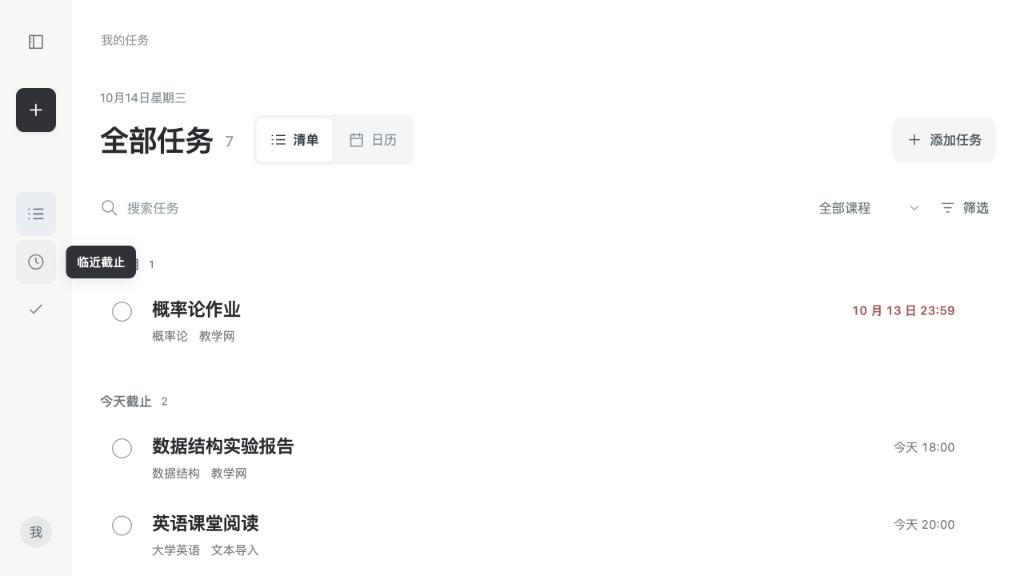
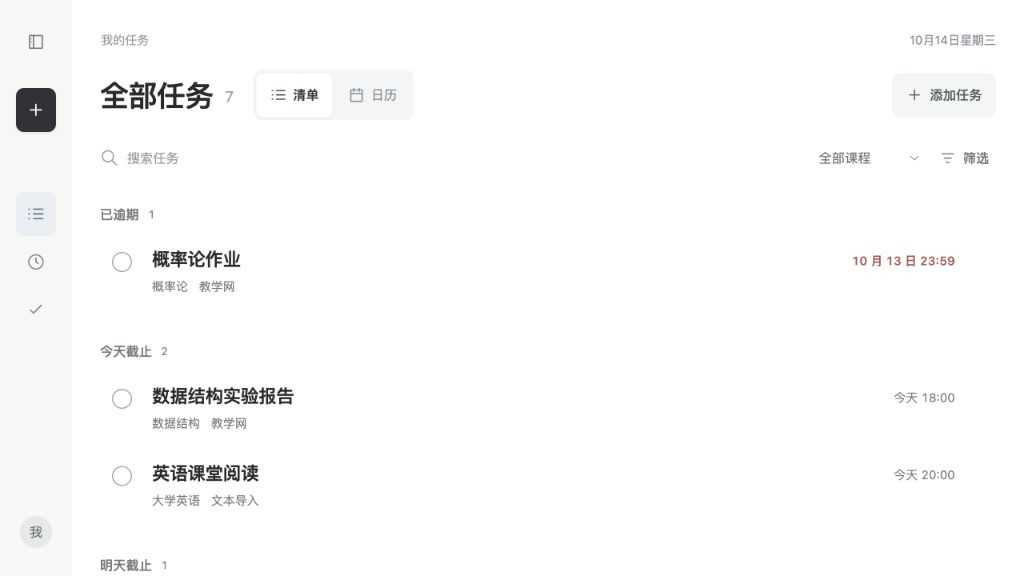
fix(frontend): compact shared headers and move date to top right

diff --git a/frontend/src/app.js b/frontend/src/app.js
@@ -44,6 +44,9 @@ const app = document.querySelector("#app"),
   sidebarTooltip = document.querySelector("#sidebar-tooltip");
 const params = new URLSearchParams(location.search),
   today = todayKey();
+const dateLabel = new Intl.DateTimeFormat("zh-CN", {
+  month: "long", day: "numeric", weekday: "long",
+}).format(new Date(today + "T12:00:00"));
 let demo = params.get("demo") === "1",
   state = demo ? demoWorkspace(today) : readStore(),
   loading = !demo,
@@ -311,7 +314,6 @@ function tasksPage() {
     ] || "全部任务";
   const heading = renderPageHeading({
     title: label,
-    eyebrow: new Intl.DateTimeFormat("zh-CN", { month: "long", day: "numeric", weekday: "long" }).format(new Date(today + "T12:00:00")),
     count: filtered().length,
     countId: "result-count",
     controls: viewSwitch,
@@ -363,7 +365,7 @@ function render() {
     focusId = focus?.id,
     start = focus?.selectionStart,
     end = focus?.selectionEnd;
-  app.innerHTML = `<div class="workspace ${ui.sidebarCollapsed ? "sidebar-collapsed" : ""} ${ui.mobileMenu ? "menu-open" : ""}">${sidebar()}<button type="button" class="sidebar-scrim" data-action="sidebar-toggle" aria-label="关闭侧栏" tabindex="-1"></button><main id="main" ${ui.mobileMenu ? "inert" : ""}><div class="page-frame"><div class="main-topbar"><button type="button" id="sidebar-show" class="icon-button" data-action="sidebar-toggle" aria-controls="sidebar" aria-expanded="${ui.mobileMenu}" aria-label="展开侧栏">${icon("sidebar")}</button><span>${ui.page === "import" ? "导入" : "我的任务"}</span></div><div id="sync-alert">${syncAlert()}</div>${loading ? '<div class="loading-state" role="status">正在读取任务…</div>' : ui.page === "import" ? `<section class="import-page">${imports.render()}</section>` : tasksPage()}</div></main></div>`;
+  app.innerHTML = `<div class="workspace ${ui.sidebarCollapsed ? "sidebar-collapsed" : ""} ${ui.mobileMenu ? "menu-open" : ""}">${sidebar()}<button type="button" class="sidebar-scrim" data-action="sidebar-toggle" aria-label="关闭侧栏" tabindex="-1"></button><main id="main" ${ui.mobileMenu ? "inert" : ""}><div class="page-frame"><div class="main-topbar"><button type="button" id="sidebar-show" class="icon-button" data-action="sidebar-toggle" aria-controls="sidebar" aria-expanded="${ui.mobileMenu}" aria-label="展开侧栏">${icon("sidebar")}</button><span>${ui.page === "import" ? "导入" : "我的任务"}</span><time class="main-date" datetime="${today}">${esc(dateLabel)}</time></div><div id="sync-alert">${syncAlert()}</div>${loading ? '<div class="loading-state" role="status">正在读取任务…</div>' : ui.page === "import" ? `<section class="import-page">${imports.render()}</section>` : tasksPage()}</div></main></div>`;
   if (!focusId) restoreFocus(token);
   if (focusId) {
     const next = document.getElementById(focusId);

diff --git a/frontend/src/styles.css b/frontend/src/styles.css
@@ -387,10 +387,17 @@ button .icon {
   height: 40px;
   font-size: 12px;
   color: #9a9ea3;
-  margin-bottom: 29px;
+  margin-bottom: 10px;
 }
 .main-topbar > span {
   margin-left: 1px;
+}
+.main-date {
+  flex: none;
+  margin-left: auto;
+  font-size: 12px;
+  color: #878e96;
+  white-space: nowrap;
 }
 #sidebar-show {
   display: none;
@@ -452,14 +459,14 @@ button .icon {
 .page-heading {
   display: grid;
   grid-template-columns: minmax(0, 1fr) auto;
-  grid-template-rows: 16.8px minmax(50px, auto);
+  grid-template-rows: minmax(50px, auto);
   align-items: center;
-  gap: 9px 18px;
-  margin-bottom: 23px;
+  gap: 10px;
+  margin-bottom: 18px;
 }
 .page-heading-line {
   grid-column: 1;
-  grid-row: 2;
+  grid-row: 1;
   display: flex;
   align-items: center;
   gap: 20px;
@@ -489,7 +496,7 @@ button .icon {
 }
 .page-heading-actions {
   grid-column: 2;
-  grid-row: 2;
+  grid-row: 1;
   display: flex;
   align-items: center;
   justify-content: flex-end;
@@ -497,18 +504,6 @@ button .icon {
 }
 .page-heading-actions .btn {
   min-height: 44px;
-}
-.page-eyebrow {
-  grid-column: 1 / -1;
-  grid-row: 1;
-  min-height: 16.8px;
-  height: 16.8px;
-  font-size: 12px;
-  line-height: 16.8px;
-  color: #878e96;
-  white-space: nowrap;
-  overflow: hidden;
-  text-overflow: ellipsis;
 }
 .page-heading h1 {
   font-size: 29px;
@@ -1351,8 +1346,11 @@ dialog .auth-switch {
     padding: 12px 20px 45px;
   }
   .main-topbar {
-    margin: 0 -8px 23px;
+    margin: 0 0 10px -8px;
     font-size: 12px;
+  }
+  .main-date {
+    font-size: 11px;
   }
   #sidebar-show {
     display: inline-flex;
@@ -1366,22 +1364,14 @@ dialog .auth-switch {
   }
   .page-heading {
     grid-template-columns: minmax(0, 1fr) 44px;
-    grid-template-rows: 44px minmax(50px, auto);
+    grid-template-rows: minmax(50px, auto);
     align-items: center;
-    gap: 6px 0;
-    margin-bottom: 17px;
-  }
-  .page-eyebrow {
-    grid-column: 1;
-    grid-row: 1;
-    display: flex;
-    align-items: center;
-    min-height: 44px;
-    height: 44px;
+    gap: 10px;
+    margin-bottom: 14px;
   }
   .page-heading-line {
-    grid-column: 1 / -1;
-    grid-row: 2;
+    grid-column: 1;
+    grid-row: 1;
     justify-content: space-between;
     gap: 10px;
   }
@@ -1418,9 +1408,6 @@ dialog .auth-switch {
   }
   .page-heading h1 {
     font-size: 27px;
-  }
-  .page-eyebrow {
-    font-size: 11px;
   }
   .add-task {
     font-size: 12px;
@@ -1550,8 +1537,13 @@ dialog .auth-switch {
   }
 }
 @media (max-width: 360px) {
+  .page-heading,
+  .page-heading-line {
+    gap: 6px;
+  }
   .page-heading-line h1 {
     font-size: 24px;
+    gap: 4px;
   }
   .page-heading-line .task-view-switch button {
     min-width: 44px;

diff --git a/frontend/src/page-layout.js b/frontend/src/page-layout.js
@@ -8,7 +8,6 @@ function escapeText(value) {
 // Controls and actions are markup generated by the calling page.
 export function renderPageHeading({
   title,
-  eyebrow = "",
   count,
   countId = "",
   controls = "",
@@ -16,5 +15,5 @@ export function renderPageHeading({
   escapeHtml = escapeText,
 }) {
   const counter = count == null ? "" : `<span class="heading-count"${countId ? ` id="${escapeHtml(countId)}"` : ""}>${escapeHtml(count)}</span>`;
-  return `<header class="page-heading"><div class="page-eyebrow"${eyebrow ? "" : ' aria-hidden="true"'}>${escapeHtml(eyebrow)}</div><div class="page-heading-line"><h1 id="page-title" tabindex="-1">${escapeHtml(title)}${counter}</h1>${controls}</div>${actions ? `<div class="page-heading-actions">${actions}</div>` : ""}</header>`;
+  return `<header class="page-heading"><div class="page-heading-line"><h1 id="page-title" tabindex="-1">${escapeHtml(title)}${counter}</h1>${controls}</div>${actions ? `<div class="page-heading-actions">${actions}</div>` : ""}</header>`;
 }

diff --git a/frontend/docs/design.md b/frontend/docs/design.md
@@ -22,13 +22,13 @@
 | 选中与日期 | 少量雾蓝或浅灰底，使用形状与字重共同区分 |
 | 辅助信息 | 中灰文字，字号降低但保持清楚可读 |
 
-页面标题约 30–32px，导入与任务复用同一标题组件，标题大小、标题行和第一控件起点一致；任务名称约 17–18px、当日面板任务约 15px、课程和来源约 11–12px。层级同时依靠字号、字重、位置和留白；不以浅到难读的颜色区分信息。任务名称允许自然换行，避免为了容纳冗长标签压缩正文。
+页面标题约 30–32px，导入与任务复用紧凑单行标题组件，标题统一上移，标题大小、标题行和第一控件起点一致；日期位于共享顶栏右上，标题不保留日期或眉题占位行。任务名称约 17–18px、当日面板任务约 15px、课程和来源约 11–12px。层级同时依靠字号、字重、位置和留白；不以浅到难读的颜色区分信息。任务名称允许自然换行，避免为了容纳冗长标签压缩正文。
 
 ## 布局与入口
 
 - 桌面固定收放按钮切换 232px 侧栏与 72px 图标栏；折叠后可直接点击导入、全部任务、临近截止、已完成和账号，悬停约 500ms 或键盘聚焦时显示名称。导入为明显主入口，任务范围位于同一区域，账号固定底部。
-- 所有页面位于 `app.js` 统一的 `.page-frame` 内，最大宽度 1450px；顶部栏、提示和页标题共用坐标，清单与日历切换时标题和查询区不位移。
-- 内容阅读区 `.page-reading` 最大宽度 860px、左对齐，日历使用框架内较宽区域；后续页面复用 `renderPageHeading` 与 `.page-frame`，仅在内部调整阅读区或宽视图。
+- 所有页面位于 `app.js` 统一的 `.page-frame` 内，最大宽度 1450px；紧凑顶栏右上显示日期，顶部栏、提示和页标题共用坐标，清单与日历切换时标题和查询区不位移。
+- 内容阅读区 `.page-reading` 最大宽度 860px、左对齐，日历使用框架内较宽区域；后续页面共用紧凑顶栏，复用仅渲染单行标题、控件和操作的 `renderPageHeading` 与 `.page-frame`，仅在内部调整阅读区或宽视图。
 - 任务详情采用约 420px 的右侧抽屉，背景清单和查询状态保留。
 - 700px 为手机布局断点：侧栏保持可关闭的抽屉菜单，不使用桌面图标栏，顶部保留导航触发按钮；任务抽屉适配窄屏。
 - 关键触控操作提供至少 44px 有效点击高度。选中状态除了颜色，还使用字重、形状及 `aria-pressed` 或 `aria-current`。

diff --git a/frontend/README.md b/frontend/README.md
@@ -1,6 +1,6 @@
 # 牛马管理器前端
 
-当前网页围绕两件事组织：导入通知，以及查询和处理任务。全部任务标题右侧的双段开关切换清单与日历，不再单设标签栏；导入与任务共用最大宽度 1450px 的页面容器和标题组件，顶部栏、提示、标题行及第一控件起点一致，860px 阅读区左对齐，日历使用较宽区域。临近截止与已完成固定使用清单；账号入口固定在侧栏底部。当前界面规格见 [设计说明](docs/design.md)，模块边界见 [维护指南](docs/maintenance.md)。
+当前网页围绕两件事组织：导入通知，以及查询和处理任务。全部任务标题右侧的双段开关切换清单与日历，不再单设标签栏；导入与任务共用最大宽度 1450px 的页面容器，日期位于共享紧凑顶栏右上，单行标题统一上移，标题行及第一控件起点一致，860px 阅读区左对齐，日历使用较宽区域。临近截止与已完成固定使用清单；账号入口固定在侧栏底部。当前界面规格见 [设计说明](docs/design.md)，模块边界见 [维护指南](docs/maintenance.md)。
 
 ## 功能与数据
 
@@ -27,7 +27,7 @@ frontend/
 ├── vite.config.ts            开发端口与同源 API 代理
 ├── src/
 │   ├── app.js                页面组织、筛选、日历导航和任务交互
-│   ├── page-layout.js        共用页面标题渲染器
+│   ├── page-layout.js        共用单行标题、控件与操作渲染器
 │   ├── account-ui.js         登录、注册、昵称和密码表单
 │   ├── import-ui.js          文本、教学网采集与候选核对
 │   ├── task-model.js         日期、筛选、排序与截止分组

diff --git a/frontend/docs/maintenance.md b/frontend/docs/maintenance.md
@@ -5,7 +5,7 @@
 | 模块 | 职责 |
 | --- | --- |
 | `app.js` | 统一 `.page-frame`、页面和查询状态、任务操作、日历导航、抽屉与焦点协调 |
-| `page-layout.js` | `renderPageHeading` 共用标题渲染器，统一标题行与首控件起点 |
+| `page-layout.js` | `renderPageHeading` 只渲染单行标题、`controls` 与 `actions`，统一标题行与首控件起点 |
 | `task-model.js` | 本地日期、截止排序、范围及组合筛选、日期分组 |
 | `task-views.js` | 清单任务行、截止分组、当日及无日期任务面板 |
 | `calendar.js` / `calendar.css` | 月历、周截止日程及任务组件样式 |
@@ -35,7 +35,7 @@
 
 按 [小组协作规范](../../CONTRIBUTING.md) 建立分支。界面与浏览器交互保留在 `frontend/`，服务端契约变更由相应模块负责人审查。启动和环境选择见 [README](../README.md)；共享测试和生产使用[环境隔离入口](../../server/deploy/ENVIRONMENTS.md)，不共用数据库、凭据或数据卷。
 
-新页面必须复用 `renderPageHeading`，沿用 `app.js` 的 `.page-frame`（最大宽度 1450px），让顶部栏、提示、页标题和首控件共用坐标。正文可使用左对齐的 `.page-reading`（最大宽度 860px）或框架内的宽视图，不能另设居中或限宽的页面外框。
+新页面必须共用 `app.js` 的紧凑顶栏、右上日期与 `.page-frame`（最大宽度 1450px），复用 `renderPageHeading` 的单行标题、控件和操作，让提示、页标题和首控件共用坐标；标题不添加日期、眉题或空占位行。正文可使用左对齐的 `.page-reading`（最大宽度 860px）或框架内的宽视图，不能另设居中或限宽的页面外框。
 
 在 `frontend/` 运行：
 
